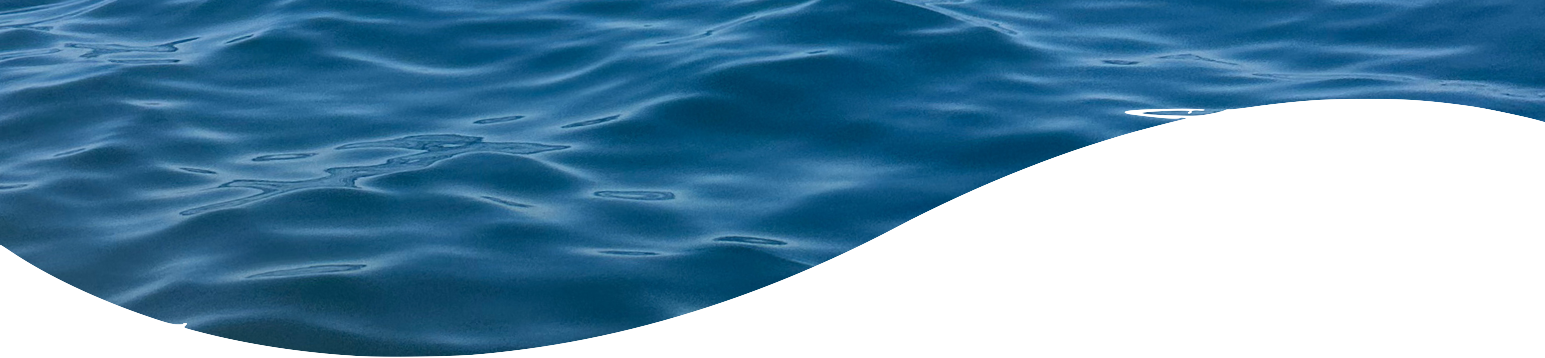
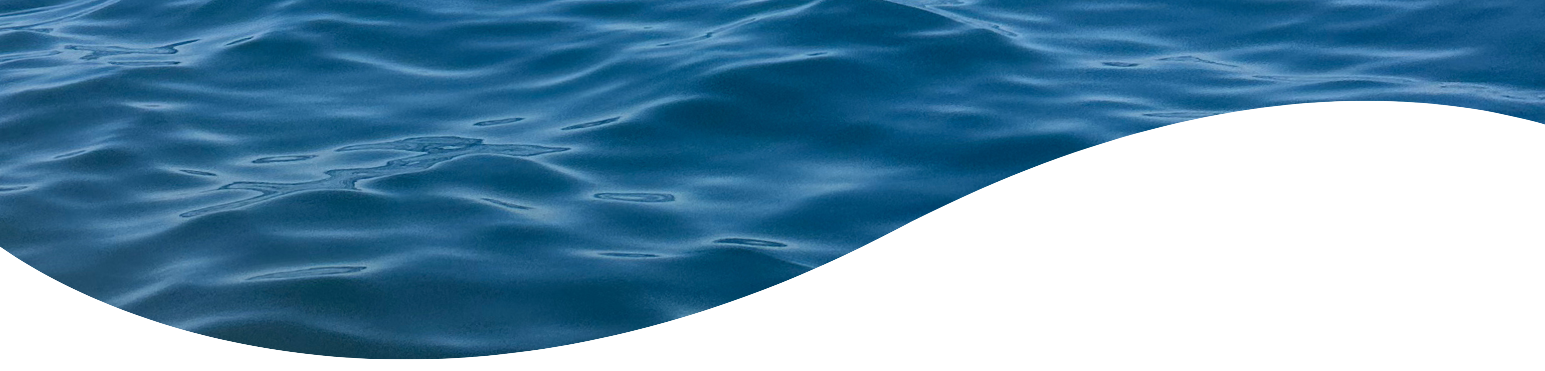
style changes

diff --git a/extracuriculars.html b/extracuriculars.html
@@ -21,7 +21,6 @@
         <h2>NUROVER</h2>
         <p>ig@nu.rover | nurover.com</p>
 
-        <div class="left-text">
           <p>
             I'm a current Co-Software Team Lead for Northeastern's Mars Rover
             team. NUROVER competes with our beloved rover Watney Mark VII in the
@@ -43,7 +42,7 @@
             competeting with 37 incredibly talented international teams. We are
             excited to compete again at URC 2026 and Summer CIRC 2026.
           </p>
-        </div>
+
 
         <img class="img" src="images/watneymartinez.png" />
         <p class="caption">
@@ -75,7 +74,6 @@
 
         <h3>A Day In the Life...</h3>
 
-        <div class="left-text">
           <p>
             As a co-lead, my role shifts from project managment, to leading
             onboarding sessions in the Fall, to coordinating software
@@ -89,7 +87,7 @@
             controllers and peripherals, but I've been spotted crimping,
             soldering, and doing some other oddball tasks and there.
           </p>
-        </div>
+  
 
         <img class="img" src="images/circhab.png" />
         <p class="caption">
@@ -114,7 +112,7 @@
         <p class="caption">Outside the Royal Tyrell Museum, Alberta 2025</p>
 
         <br />
-      </div>
+        </div>
     </body>
   </html>
 </html>

diff --git a/custom.css b/custom.css
@@ -14,16 +14,15 @@ body {
   padding: 0;
 }
 
-.img {
+.small-img {
   width: 100%;
-  max-width: 600px;
+  max-width: 450px;
   display: block;
 }
 
-.small-img {
+.img {
   width: 100%;
-  height: auto;
-  max-width: 200px;
+  max-width: 600px;
   display: block;
 }
 
@@ -49,8 +48,19 @@ p {
   align-items: center;
 }
 
-.left-text {
-  text-align: left;
+.column-container {
+  display: flex;
+  width: 800px;
+  margin: 0 auto;
+}
+
+.column {
+  flex: 1;
+  flex-direction: column;
+  align-items: center;
+  justify-content: center;
+  padding: 1em;
+  height: 600px;
 }
 
 .top-bar {

diff --git a/index.html b/index.html
@@ -35,11 +35,9 @@
         <a href="https://www.linkedin.com/in/samantha-damonti/">linkedin</a>
       </p>
 
-      <img class="img" src="images/samwclam.png" />
+      <img class="small-img" src="images/samwclam.png" />
       <p class="caption">Quahog!</p>
 
-      <br />
-      <br />
       <br />
 
       <img class="background-img" src="images/wave2.png" />
